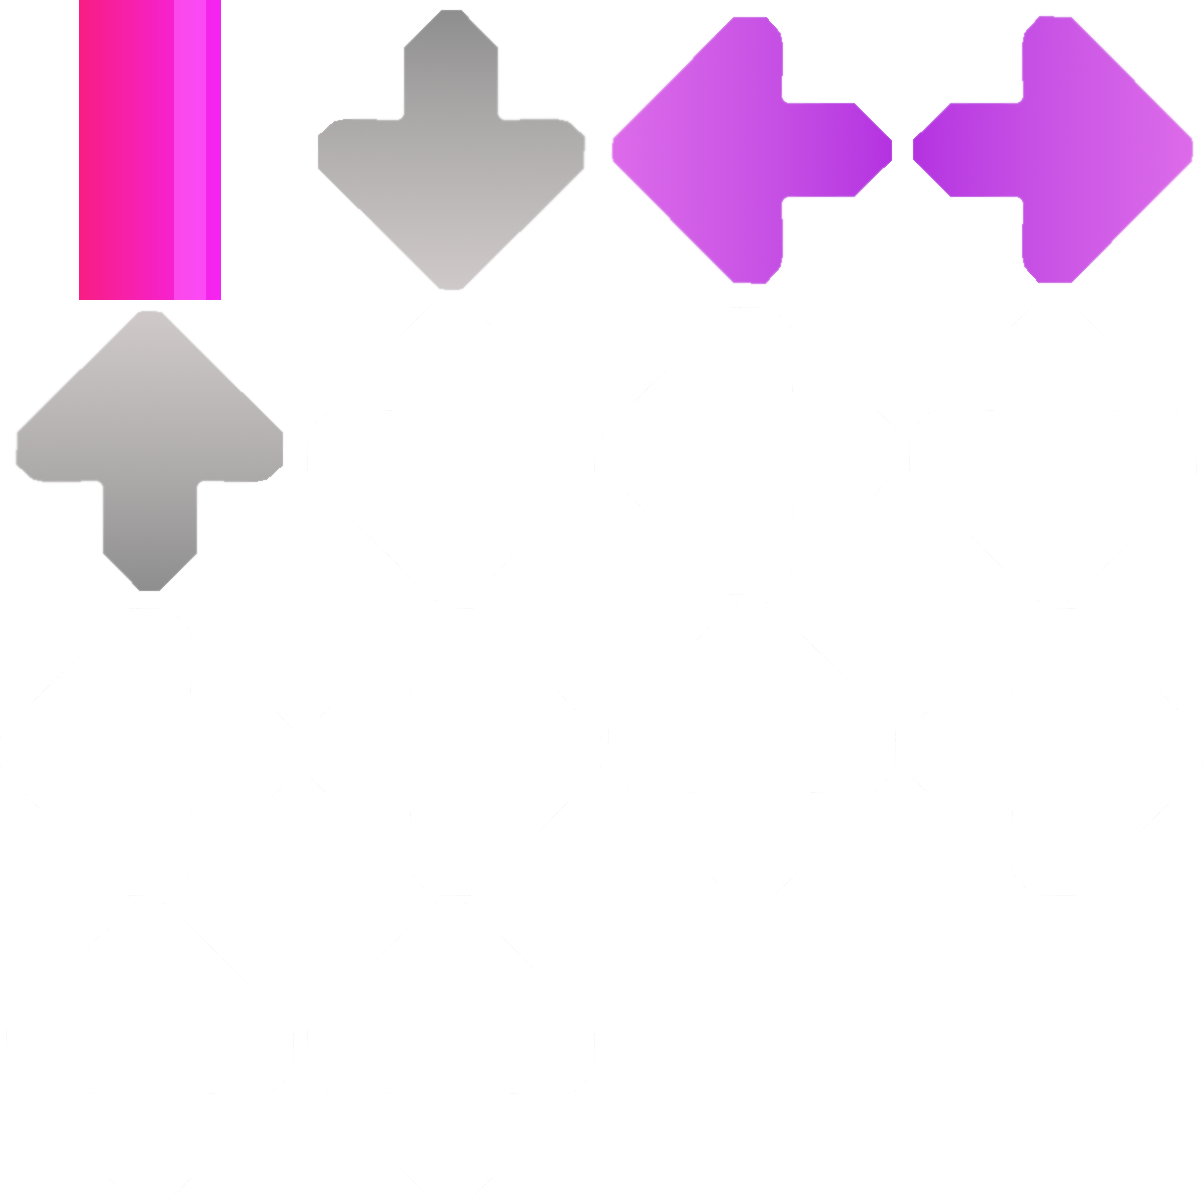
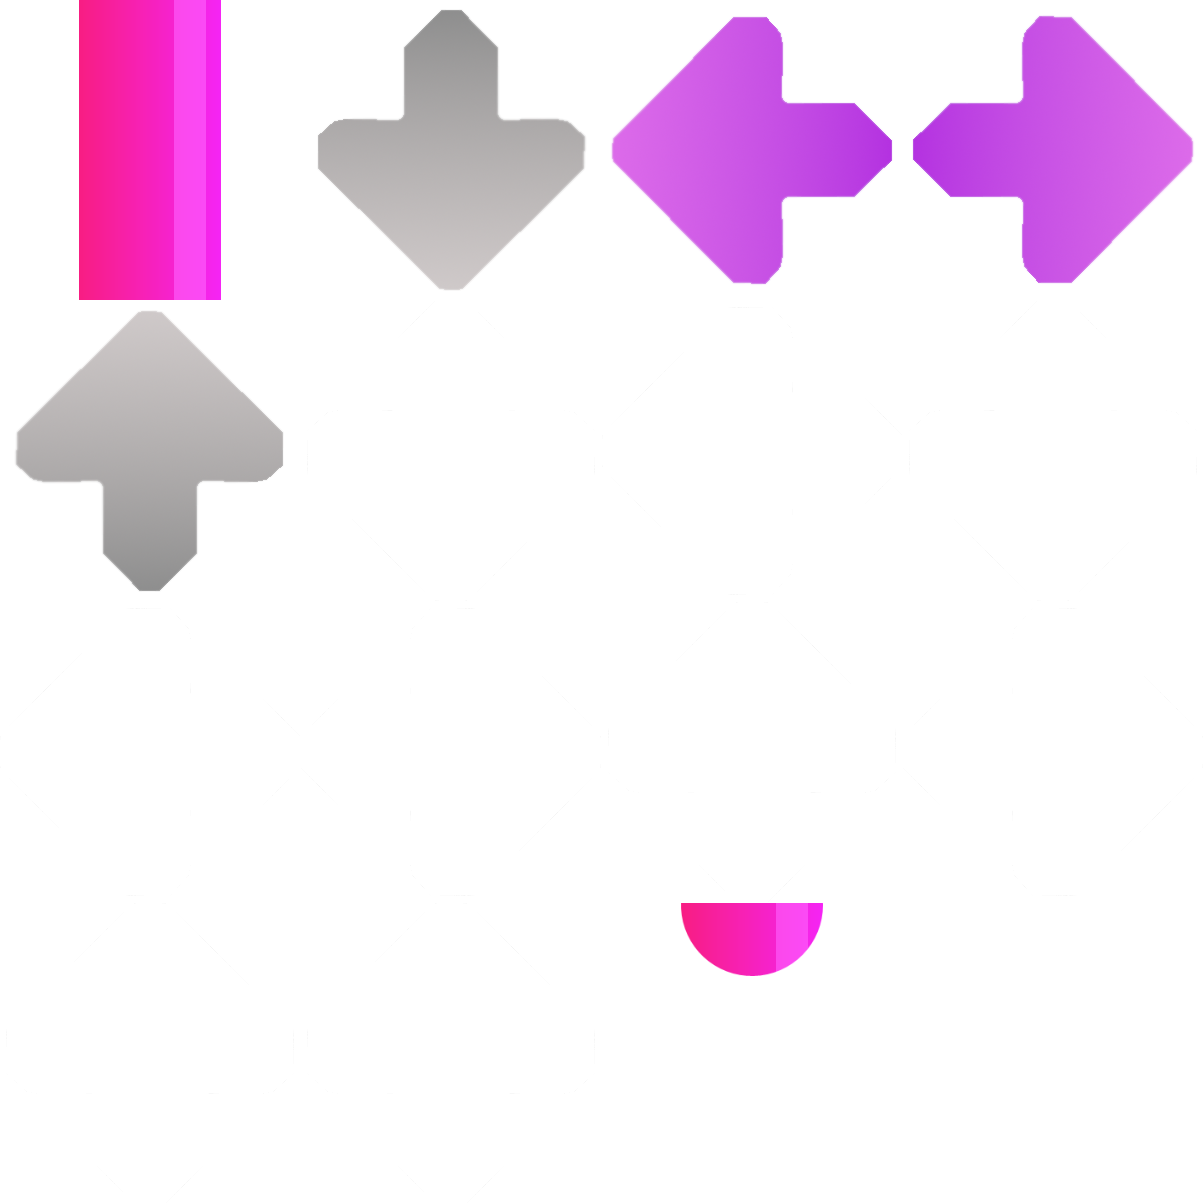
Implement hold notes

Changed region(s): [[0.5532, 0.7375, 0.7068, 0.8297]]

diff --git a/tools/spritepacker.py b/tools/spritepacker.py
@@ -65,7 +65,7 @@ def pack_spritesheet(images, output_image, output_txt):
     with open(output_txt, 'w') as f:
         for img, name, x, y in packed:
             spritesheet.paste(img, (x, y))
-            f.write(f"{name} {x} {y} {img.width} {img.height}\n")
+            f.write(f"{name} {x}, {y}, {img.width}, {img.height}\n")
             max_x = max(max_x, x + img.width + PADDING)
             max_y = max(max_y, y + img.height + PADDING)
 
